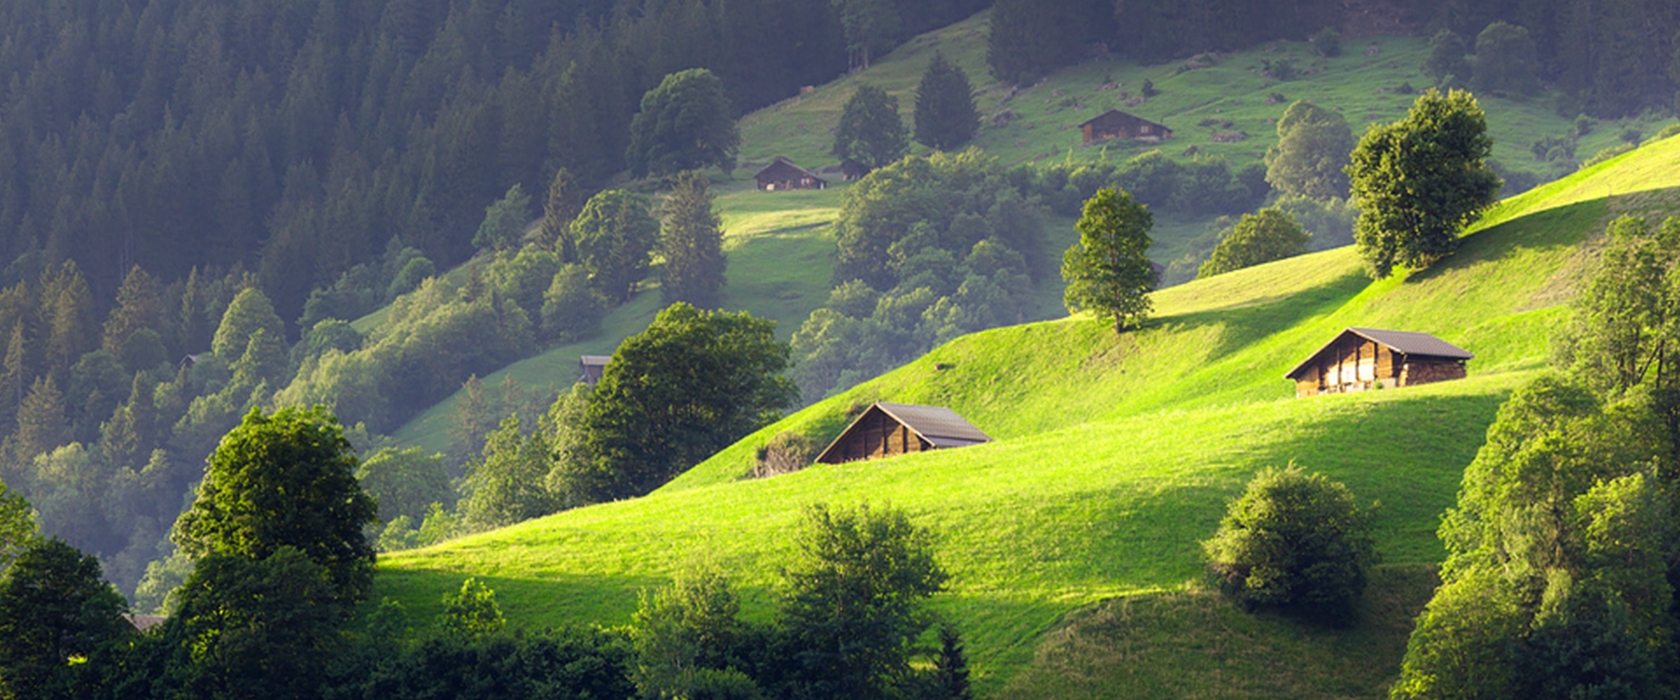
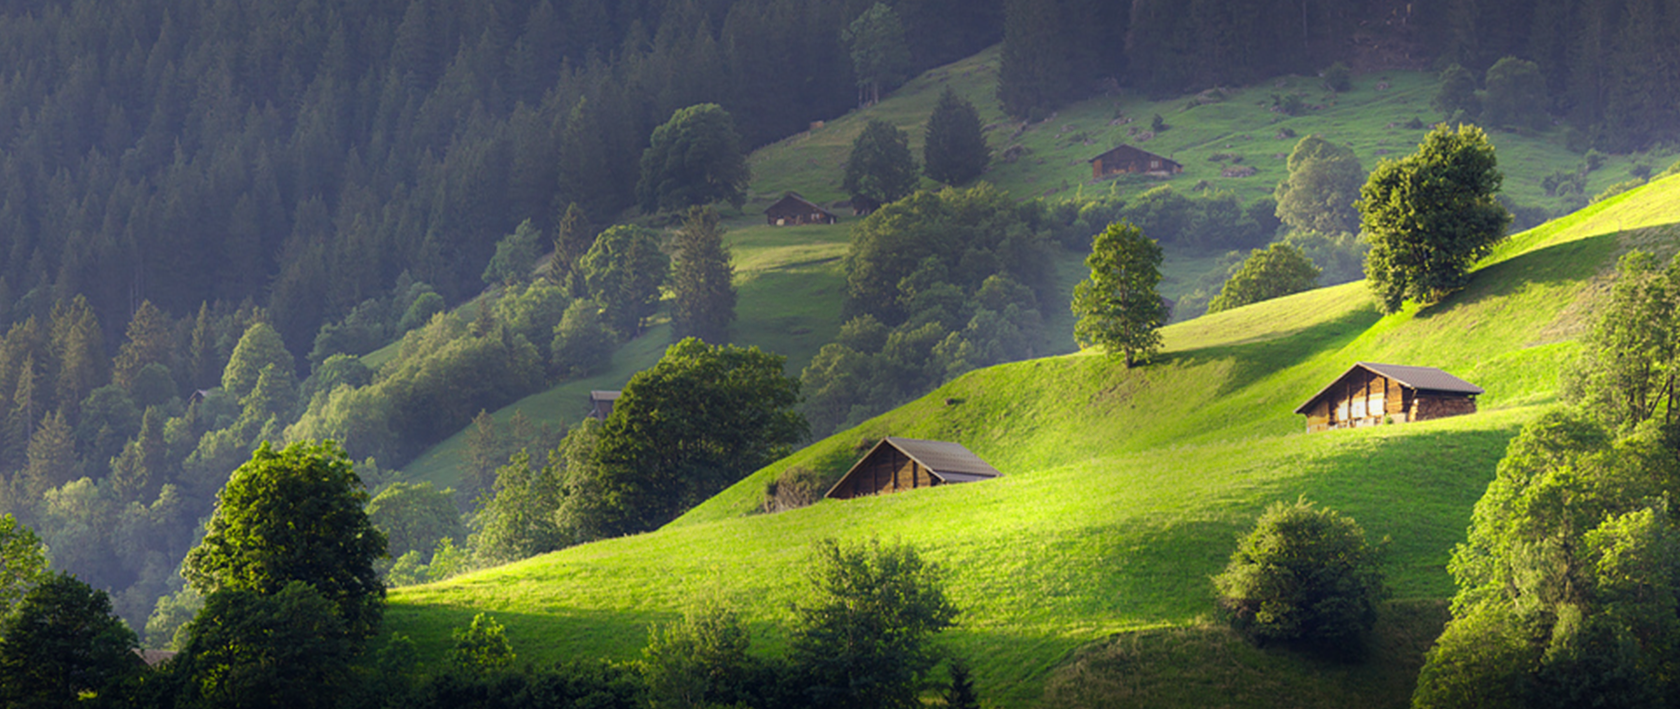
homepage styling

diff --git a/public/css/main.css b/public/css/main.css
@@ -1,1 +1,1 @@
-body>*{width:1080px;margin:0 auto}body h2{text-decoration:underline}body a:hover{text-decoration:none}.content{padding:0 20px}.header{height:70px;line-height:40px;padding:15px;position:relative}.header .logo{color:#FEFEFE;font-size:20px;float:left}.header .navigator{float:right}.header .navigator .link{font-size:16px;color:#F5F5F5}.header .navigator .link:not(:last-of-type){margin-right:25px}.header .navigator .link.active{color:#D8FF00}.show-case{height:630px}.show-case .slogan{padding-top:80px;text-align:center}.show-case .slogan .title{font-size:60px;color:#D8FF00}.show-case .slogan .sub-title{font-size:24px;color:#FFFFFF}.show-case .features{padding-top:60px}.show-case .features .foreword{color:#FEFEFE;text-align:center;margin-bottom:30px}.show-case .features .feature{float:left;width:360px;font-size:16px;color:#D8FF00;text-align:center}.background{z-index:-1;background-image:url("/images/homepage-background.png");position:absolute;top:0;left:0;width:100%;height:700px}.achievements{height:240px}.achievements .foreword{padding:15px;color:#737373;text-align:center}.achievements .achievement{float:left;width:360px;height:150px}.achievements .achievement>span{display:block;text-align:center}.achievements .achievement .icon{margin:0 auto;height:85px}.achievements .achievement.incubating .icon{width:89px;background:url("/images/incubating.png") no-repeat}.achievements .achievement.scale .icon{width:128px;background:url("/images/scale.png") no-repeat;position:relative;left:25px}.achievements .achievement.cultivation .icon{width:96px;background:url("/images/cultivation.png") no-repeat}.achievements .achievement .title{font-size:18px;color:#333333}.achievements .achievement .desc{font-size:14px;color:#737373}.footer{width:100%;background-color:#B8C4CC;height:260px}.footer>div{width:1080px;margin:0 auto}.footer .summary{padding:30px 0}.footer .summary>div{display:inline-block}.footer .summary .logo{width:71px;margin-right:85px}
+body>*{width:1080px;margin:0 auto}body h2{text-decoration:underline}body a:hover{text-decoration:none}.content{padding:0 20px}.header{height:70px;line-height:40px;padding:14px;position:relative}.header .logo{float:left}.header .navigator{float:right}.header .navigator .link{font-size:16px;color:#F5F5F5}.header .navigator .link:not(:last-of-type){margin-right:30px}.header .navigator .link.active{color:#D8FF00}.show-case{height:551px}.show-case .slogan{margin:88px auto 0;height:90px;width:468px;background:url("/images/slogan.png") no-repeat}.show-case .features{padding-top:75px}.show-case .features .foreword{color:#FFFFFF;text-align:center;margin-bottom:35px}.show-case .features .feature{position:relative;float:left;width:250px;height:194px;font-size:16px;color:#D8FF00;margin:0 55px}.show-case .features .feature span{display:inline-block;width:70px;font-weight:bold}.show-case .features .feature.feature1 i{position:absolute;right:0;top:0;width:174px;height:194px;background:url("/images/feature1.png")}.show-case .features .feature.feature2 span{position:relative;left:175px;top:15px}.show-case .features .feature.feature2 i{position:absolute;left:28px;top:0;width:132px;height:194px;background:url("/images/feature2.png")}.show-case .features .feature.feature3 span{position:relative;left:138px;top:15px}.show-case .features .feature.feature3 i{position:absolute;left:50px;top:0;width:144px;height:193px;background:url("/images/feature3.png")}.background{z-index:-1;background-image:url("/images/homepage-background.png");position:absolute;top:0;left:0;width:100%;height:709px}.achievements{height:240px}.achievements .foreword{padding:20px;color:#737373;text-align:center}.achievements .achievement{float:left;width:360px;height:150px}.achievements .achievement>span{display:block;text-align:center}.achievements .achievement .icon{margin:0 auto 20px;height:85px}.achievements .achievement.incubating .icon{width:89px}.achievements .achievement.scale .icon{width:128px;position:relative;left:25px}.achievements .achievement.cultivation .icon{width:96px}.achievements .achievement.cultivation .icon img{position:relative;top:7px}.achievements .achievement .title{font-size:18px;color:#333333}.achievements .achievement .desc{font-size:14px;color:#737373}.footer{width:100%;background-color:#B8C4CC;height:282px}.footer>div{width:1080px;margin:0 auto}.footer .summary{padding:30px 0;height:192px}.footer .summary>div{display:inline-block;float:left}.footer .summary .logo{width:71px;margin-right:90px}.footer .summary .information{margin-right:60px}.footer .summary .information .title{font-size:16px;font-weight:bold;color:#1D2124}.footer .summary .information .links{width:155px;margin-top:10px;display:inline-block}.footer .summary .information .links:not(:last-of-type){margin-right:30px}.footer .summary .information .links a{display:block;color:#3D454A}.footer .summary .information.projects .links{width:238px}.footer .contact{color:#3D454A}.footer .contact span{padding-right:15px}.footer .contact .phone,.footer .contact .address{display:inline-block;padding-left:35px;height:30px;line-height:30px}.footer .contact .phone{background:url("/images/phone.png") no-repeat}.footer .contact .address{background:url("/images/address.png") no-repeat}.footer .copy-right{color:#3D454A;margin-top:20px;margin-bottom:20px}

diff --git a/views/sass/main.scss b/views/sass/main.scss
@@ -19,12 +19,10 @@ body {
 .header {
   height: 70px;
   line-height: 40px;
-  padding: 15px;
+  padding: 14px;
   position: relative;
 
   .logo {
-    color: #FEFEFE;
-    font-size: 20px;
     float: left;
   }
 
@@ -36,7 +34,7 @@ body {
       color: #F5F5F5;
 
       &:not(:last-of-type) {
-        margin-right: 25px;
+        margin-right: 30px;
       }
 
       &.active {
@@ -47,38 +45,84 @@ body {
 }
 
 .show-case {
-  height: 630px;
+  height: 551px;
 
   .slogan {
-    padding-top: 80px;
-    text-align: center;
-
-    .title {
-      font-size: 60px;
-      color: #D8FF00;
-    }
-
-    .sub-title {
-      font-size: 24px;
-      color: #FFFFFF;
-    }
+    margin: 88px auto 0;
+    height: 90px;
+    width: 468px;
+    background: url("/images/slogan.png") no-repeat;
   }
 
   .features {
-    padding-top: 60px;
+    padding-top: 75px;
 
     .foreword {
-      color: #FEFEFE;
+      color: #FFFFFF;
       text-align: center;
-      margin-bottom: 30px;
+      margin-bottom: 35px;
     }
 
     .feature {
-      float: left;;
-      width: 360px;
+      position: relative;
+      float: left;
+      width: 250px;
+      height: 194px;
       font-size: 16px;
       color: #D8FF00;
-      text-align: center;
+      margin: 0 55px;
+
+      span {
+        display: inline-block;
+        width: 70px;
+        font-weight: bold;
+      }
+
+      &.feature1 {
+        i {
+          position: absolute;
+          right: 0;
+          top: 0;
+          width: 174px;
+          height: 194px;
+          background: url("/images/feature1.png");
+        }
+      }
+
+      &.feature2 {
+        span {
+          position: relative;
+          left: 175px;
+          top: 15px;
+        }
+
+        i {
+          position: absolute;
+          left: 28px;
+          top: 0;
+          width: 132px;
+          height: 194px;
+          background: url("/images/feature2.png");
+        }
+      }
+
+      &.feature3 {
+        span {
+          position: relative;
+          left: 138px;
+          top: 15px;
+        }
+
+        i {
+          position: absolute;
+          left: 50px;
+          top: 0;
+          width: 144px;
+          height: 193px;
+          background: url("/images/feature3.png");
+        }
+      }
+
     }
   }
 }
@@ -90,14 +134,14 @@ body {
   top: 0;
   left: 0;
   width: 100%;
-  height: 700px;
+  height: 709px;
 }
 
 .achievements {
   height: 240px;
 
   .foreword {
-    padding: 15px;
+    padding: 20px;
     color: #737373;
     text-align: center;
   }
@@ -113,25 +157,27 @@ body {
     }
 
     .icon {
-      margin: 0 auto;
+      margin: 0 auto 20px;
       height: 85px;
     }
 
     &.incubating .icon {
       width: 89px;
-      background: url('/images/incubating.png') no-repeat;
     }
 
     &.scale .icon {
       width: 128px;
-      background: url('/images/scale.png') no-repeat;
       position: relative;
       left: 25px;
     }
 
     &.cultivation .icon {
       width: 96px;
-      background: url('/images/cultivation.png') no-repeat;
+
+      img {
+        position: relative;
+        top: 7px;
+      }
     }
 
     .title {
@@ -149,7 +195,7 @@ body {
 .footer {
   width: 100%;
   background-color: #B8C4CC;
-  height: 260px;
+  height: 282px;
 
   & > div {
     width: 1080px;
@@ -158,14 +204,75 @@ body {
 
   .summary {
     padding: 30px 0;
+    height: 192px;
 
     & > div {
       display: inline-block;
+      float: left;
     }
 
     .logo {
       width: 71px;
-      margin-right: 85px;
+      margin-right: 90px;
     }
+
+    .information {
+      margin-right: 60px;
+      .title {
+        font-size: 16px;
+        font-weight: bold;
+        color: #1D2124;
+      }
+
+      .links {
+        width: 155px;
+        margin-top: 10px;
+        display: inline-block;
+
+        &:not(:last-of-type) {
+          margin-right: 30px;
+        }
+
+        a {
+          display: block;
+          color: #3D454A;
+        }
+      }
+
+      &.projects {
+        .links {
+          width: 238px;
+        }
+      }
+    }
+  }
+
+  .contact {
+    color: #3D454A;
+
+    span {
+      padding-right: 15px;
+    }
+
+    .phone, .address {
+      display: inline-block;
+      padding-left: 35px;
+      height: 30px;
+      line-height: 30px;
+    }
+
+    .phone {
+      background: url("/images/phone.png") no-repeat;
+    }
+
+    .address {
+      background: url("/images/address.png") no-repeat;
+    }
+  }
+
+  .copy-right {
+    color: #3D454A;
+    margin-top: 20px;
+    margin-bottom: 20px;
   }
 }
